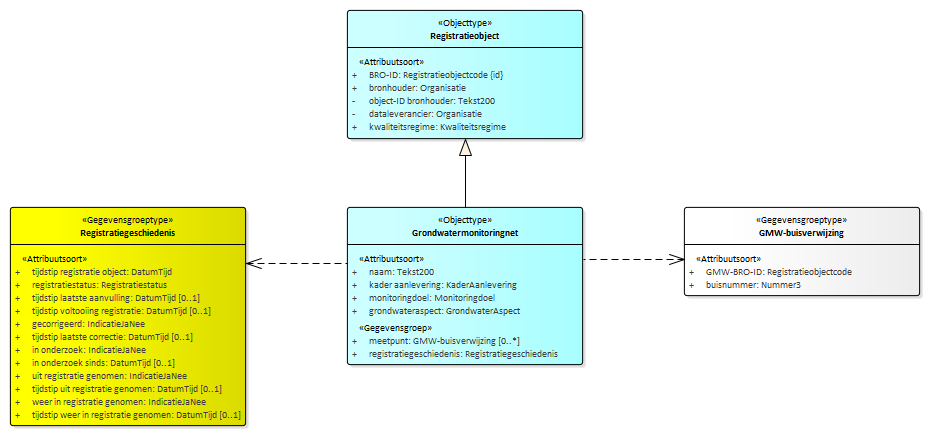
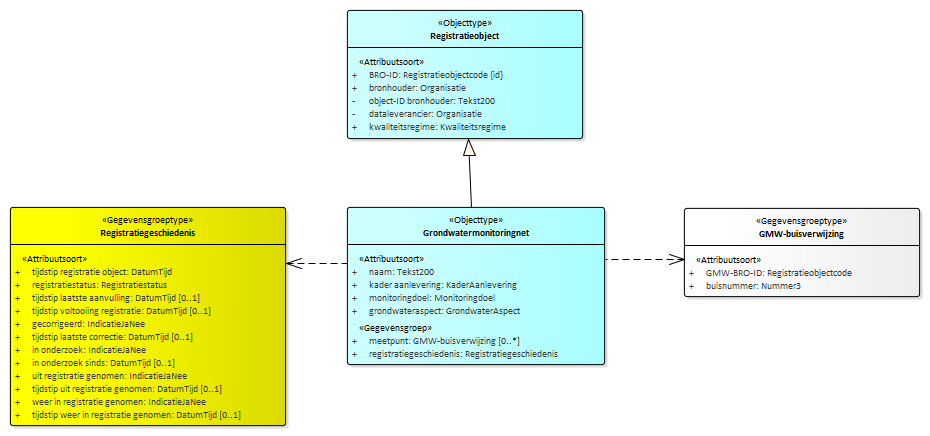
Conceptualmodel-GrondwatermonitoringnetGMN-0.1-0-20180301-20190121-163117

diff --git a/data/GMN-cat.html b/data/GMN-cat.html
@@ -1,16 +1,16 @@
 <h2>Catalogus</h2>
 <p class="note" title="Over deze catalogus">
    Deze catalogus is automatisch samengesteld op basis van het UML model 
-   "Grondwatermonitoringnet (GMN)" door Imvertor 1.50.1 op January 11, 2019 at 14:56:58.
+   "Grondwatermonitoringnet (GMN)" door Imvertor 1.50.1 op January 21, 2019 at 15:31:16.
    <br>
    Wanneer je technische fouten of onvolkomenheden aantreft, geef dit dan door aan <i></i> en geef de code 
-   <i>"Conceptualmodel-GrondwatermonitoringnetGMN-0.1-0-20180301-20190111-155700"</i> door. 
+   <i>"Conceptualmodel-GrondwatermonitoringnetGMN-0.1-0-20180301-20190121-163117"</i> door. 
    
 </p><a class="anchor" name="global_package_Model"></a><section id="global_package_Model">
    <h3>Domein Model</h3>
    <div class="imageinfo overview"><img src="data/Images/EAID_16A72207_068F_4cb7_8848_6A51D3D09C6C.png" usemap="#imagemap-EAID_16A72207_068F_4cb7_8848_6A51D3D09C6C"><map name="imagemap-EAID_16A72207_068F_4cb7_8848_6A51D3D09C6C">
          <area shape="rect" coords="347,139,583,10" alt="" href="#graph_EAID_AF36F25F_EDC0_4e99_A937_DF9E6889C6F0">
-         <area shape="rect" coords="347,365,583,207" alt="" href="#graph_EAID_A35817A4_9167_4620_BB25_5933C44F44E1"></map><p><b>Domeinmodel BRO GMN - overzicht</b></p>
+         <area shape="rect" coords="347,365,605,207" alt="" href="#graph_EAID_A35817A4_9167_4620_BB25_5933C44F44E1"></map><p><b>Domeinmodel BRO GMN - overzicht</b></p>
    </div>
    <section id="">
       <h4>Objecttypen </h4>
@@ -695,8 +695,7 @@
                      </tr>
                      <tr>
                         <th>Toelichting</th>
-                        <td>Dit nummer verwijst naar het buisnummer dat is geregistreerd bij de monitoringbuis
-                           van de grondwatermonitoringput in de basisregistratie ondergrond.<br>In brondocumenten voor het aanleveren van meetpunten is het mogelijk om de putcode
+                        <td>In brondocumenten voor het aanleveren van meetpunten is het mogelijk om de putcode
                            op te geven in plaats van het BRO-ID van de grondwatermonitoringput. Bij inname van
                            de gegevens wordt dan het bijbehorende BRO-ID opgezocht en vastgelegd.
                         </td>
